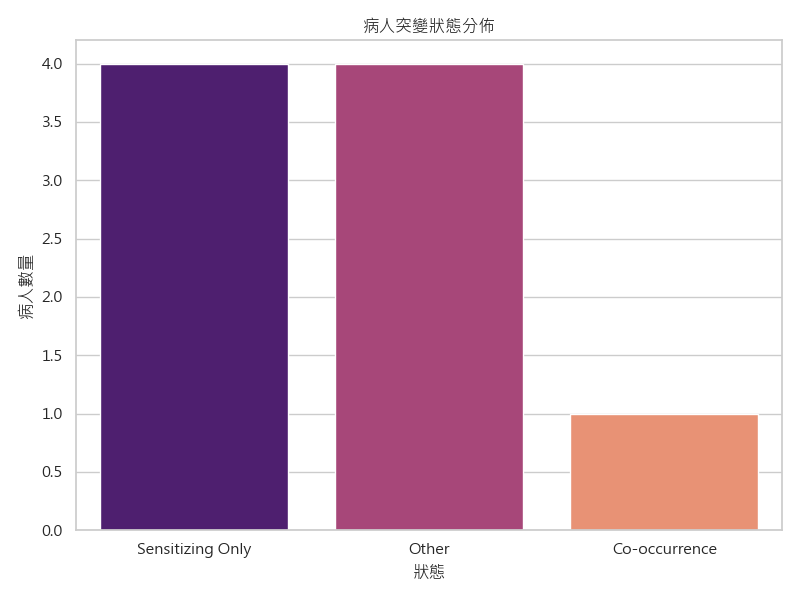
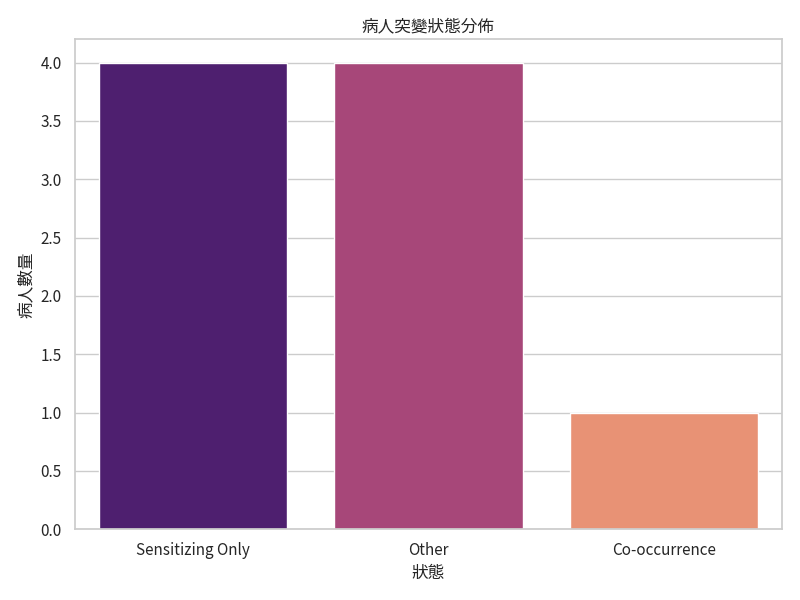
feat: Dockerize EGFR analysis project, refine plotting fonts for better CJK support, and add new result outputs for patient status, co-occurrence statistics, and mutation frequency.

diff --git a/visualize_results.py b/visualize_results.py
@@ -21,9 +21,8 @@ def visualize_results():
     # Set style (no emojis, clean look)
     sns.set_theme(style="whitegrid")
     
-    # 設定字型：跨平台支援 (Windows/Linux/macOS)
-    # 優先使用標準英文字型 (解決 Linux 英文消失問題)，中文會自動 fallback 到後面的字型
-    plt.rcParams['font.sans-serif'] = ['DejaVu Sans', 'Arial', 'Microsoft JhengHei', 'WenQuanYi Micro Hei', 'Droid Sans Fallback', 'Noto Sans CJK TC', 'SimHei']
+    # 設定字型：優先使用 Noto Sans CJK JP (Docker default for CJK), 回退到 Microsoft JhengHei (Windows)
+    plt.rcParams['font.sans-serif'] = ['Noto Sans CJK JP', 'Noto Sans CJK TC', 'Noto Sans CJK SC', 'Microsoft JhengHei', 'DejaVu Sans']
     plt.rcParams['axes.unicode_minus'] = False
 
     

diff --git a/README.md b/README.md
@@ -6,7 +6,38 @@
 
 ## 1. 快速開始
 
-### 環境需求
+### 選擇您的執行方式
+
+本專案提供**三種執行方式**，請根據您的需求選擇：
+
+| 方式 | 適合對象 | 優點 | 需要安裝 |
+|------|---------|------|---------|
+| **Docker Compose** | 所有使用者 | 最簡單，一鍵執行 | Docker & Docker Compose |
+| **Docker** | 熟悉 Docker 的使用者 | 環境一致，無需配置 Python | Docker |
+| **本地執行** | Python 開發者 | 方便除錯和修改 | Python 3.x + 套件 |
+
+> **推薦**: 如果您已安裝 Docker，直接跳到 [方法 3: Docker Compose](#方法-3-使用-docker-compose-執行最簡單)
+> 
+> **Docker 新手？** 請先閱讀 [DOCKER_QUICKSTART.md](DOCKER_QUICKSTART.md) - 5 分鐘快速入門
+> 
+> **進階使用者**: 詳細的 Docker 使用說明和疑難排解請參考 [DOCKER_GUIDE.md](DOCKER_GUIDE.md)
+
+---
+## 2. 如何執行
+
+**步驟 0: 下載專案**
+
+無論使用哪種方法，請先下載專案程式碼：
+
+```bash
+# 請將 URL 換成您的 GitHub 專案網址
+git clone https://github.com/YOUR_USERNAME/egfr-analysis.git
+cd egfr-analysis
+```
+
+### 方法 1: 本地執行 (Local Execution)
+
+#### 環境需求
 
 本專案需要 Python 3.x 環境，並安裝以下套件：
 *   `pandas`: 數據處理
@@ -15,34 +46,201 @@
 *   `seaborn`: 進階繪圖
 *   `pyyaml`: 讀取設定檔
 
-### 安裝依賴套件
+#### 安裝依賴套件
 
 ```bash
+# 使用 pip 安裝
 pip install -r requirements.txt
+
+# 或者使用 conda 建立獨立環境
+conda create --name egfr_env --file requirements.txt
+conda activate egfr_env
 ```
 
-### 執行分析
+#### 執行分析
 
 ```bash
 python run_pipeline.py
 ```
 
----
-## 2. 如何執行
+### 方法 2: 使用 Docker 執行
 
-請確保您已安裝所有依賴套件，然後在專案根目錄執行：
+使用 Docker 可以確保環境一致性，無需手動安裝 Python 套件。
 
+#### 前置需求
+
+確認您已安裝 Docker：
 ```bash
-python run_pipeline.py
+docker --version
 ```
 
-程式將會自動執行：
-1.  下載數據 (如果尚未下載)
-2.  清洗數據
-3.  進行共現性分析
-4.  產生視覺化圖表
+如果尚未安裝，請參考 [Docker 官方安裝指南](https://docs.docker.com/get-docker/)
 
-所有結果將儲存在 `results/` 資料夾中。
+#### 步驟 1: 建立 Docker 映像
+
+在專案根目錄執行：
+```bash
+docker build -t egfr-analysis .
+```
+
+**說明**：
+- `-t egfr-analysis`: 為映像命名為 `egfr-analysis`
+- `.`: 使用當前目錄的 Dockerfile
+
+**預期輸出**：會看到多個步驟（Step 1/X），最後顯示 `Successfully tagged egfr-analysis:latest`
+
+#### 步驟 2: 建立必要的目錄
+
+```bash
+# Linux / macOS
+mkdir -p data results
+
+# Windows PowerShell
+New-Item -ItemType Directory -Force -Path data, results
+```
+
+#### 步驟 3: 執行分析
+
+**Linux / macOS / Git Bash:**
+```bash
+docker run --rm \
+  -v $(pwd)/data:/app/data \
+  -v $(pwd)/results:/app/results \
+  egfr-analysis
+```
+
+**Windows PowerShell:**
+```powershell
+docker run --rm `
+  -v ${PWD}/data:/app/data `
+  -v ${PWD}/results:/app/results `
+  egfr-analysis
+```
+
+**Windows CMD:**
+```cmd
+docker run --rm -v %cd%/data:/app/data -v %cd%/results:/app/results egfr-analysis
+```
+
+**參數說明**：
+- `--rm`: 執行完畢後自動刪除容器
+- `-v`: 掛載本地目錄到容器內
+  - `data:/app/data`: 下載的資料會保存在本地 `data/` 目錄
+  - `results:/app/results`: 分析結果會保存在本地 `results/` 目錄
+
+#### 進階使用
+
+**進入容器互動模式（用於除錯）：**
+```bash
+docker run -it --rm \
+  -v $(pwd)/data:/app/data \
+  -v $(pwd)/results:/app/results \
+  egfr-analysis /bin/bash
+```
+
+進入後可以手動執行個別腳本：
+```bash
+python download_tcga_data.py
+python clean_data.py
+python analyze_cooccurrence.py
+python visualize_results.py
+```
+
+**只執行特定腳本：**
+```bash
+docker run --rm \
+  -v $(pwd)/data:/app/data \
+  -v $(pwd)/results:/app/results \
+  egfr-analysis python clean_data.py
+```
+
+### 方法 3: 使用 Docker Compose 執行（最簡單）
+
+Docker Compose 可以簡化 Docker 指令，推薦使用此方法。
+
+#### 前置需求
+
+確認您已安裝 Docker Compose：
+```bash
+docker-compose --version
+# 或新版本
+docker compose version
+```
+
+#### 執行步驟
+
+**1. 建立並執行（前景模式）：**
+```bash
+docker-compose up
+```
+或使用新版指令：
+```bash
+docker compose up
+```
+
+**說明**：
+- 第一次執行會自動建立映像
+- 執行完畢後按 `Ctrl+C` 停止
+
+**2. 在背景執行：**
+```bash
+docker-compose up -d
+```
+
+**3. 查看執行日誌：**
+```bash
+# 查看所有日誌
+docker-compose logs
+
+# 即時追蹤日誌
+docker-compose logs -f
+
+# 只看最後 50 行
+docker-compose logs --tail=50
+```
+
+**4. 停止並清理：**
+```bash
+# 停止容器
+docker-compose stop
+
+# 停止並移除容器
+docker-compose down
+
+# 停止、移除容器並刪除映像
+docker-compose down --rmi all
+```
+
+#### 常見問題排解
+
+**問題 1: 權限錯誤（Linux）**
+```bash
+# 如果遇到權限問題，可以修改目錄權限
+sudo chown -R $USER:$USER data results
+```
+
+**問題 2: 映像建立失敗**
+```bash
+# 清理舊的映像和快取
+docker system prune -a
+
+# 重新建立
+docker-compose build --no-cache
+```
+
+**問題 3: 容器無法啟動**
+```bash
+# 查看詳細錯誤訊息
+docker-compose logs
+
+# 檢查容器狀態
+docker-compose ps
+```
+
+**問題 4: 中文目錄名稱問題**
+如果您的專案位於包含中文字元的目錄中，建議：
+1. 將專案移至英文路徑，或
+2. 使用方法 2（直接使用 docker run）
 
 ## 3. 系統架構與流程 (Workflow)
 
@@ -311,16 +509,23 @@ def main():
 *   **`requirements.txt`**: **安裝清單**。列出了執行此程式需要的 Python 套件 (如 pandas, requests)。
 *   **`EGFR_Resistance_Mutations_Ground_Truth.csv`**: **標準答案**。我們預先定義好的抗藥性突變列表，作為參考基準。
 
+### Docker 相關檔案
+*   **`Dockerfile`**: **容器定義檔**。定義如何建立 Docker 映像，包含 Python 環境、依賴套件安裝等步驟。
+*   **`docker-compose.yml`**: **容器編排檔**。簡化 Docker 容器的啟動與管理，包含 volume 掛載設定。
+*   **`.dockerignore`**: **排除清單**。指定哪些檔案不需要複製到 Docker 映像中，減少映像大小。
+*   **`DOCKER_QUICKSTART.md`**: **快速入門指南**。5 分鐘快速上手 Docker 執行的逐步說明。
+*   **`DOCKER_GUIDE.md`**: **完整 Docker 指南**。包含詳細操作說明與常見問題排解。
+
 
 
 ## 7. 資料流向圖 (Data Flow)
 
 1.  **雲端 (GDC API)**
-    ⬇ 下載
+    | 下載
 2.  **原始數據 (`.maf`)**
-    ⬇ 清洗 (`clean_data.py`)
+    | 清洗 (`clean_data.py`)
 3.  **乾淨數據 (`.csv`)**
-    ⬇ 分析 (`analyze_cooccurrence.py`)
+    | 分析 (`analyze_cooccurrence.py`)
 4.  **統計結果 (`.csv`)**
-    ⬇ 繪圖 (`visualize_results.py`)
+    | 繪圖 (`visualize_results.py`)
 5.  **圖表 (`.png`)**
